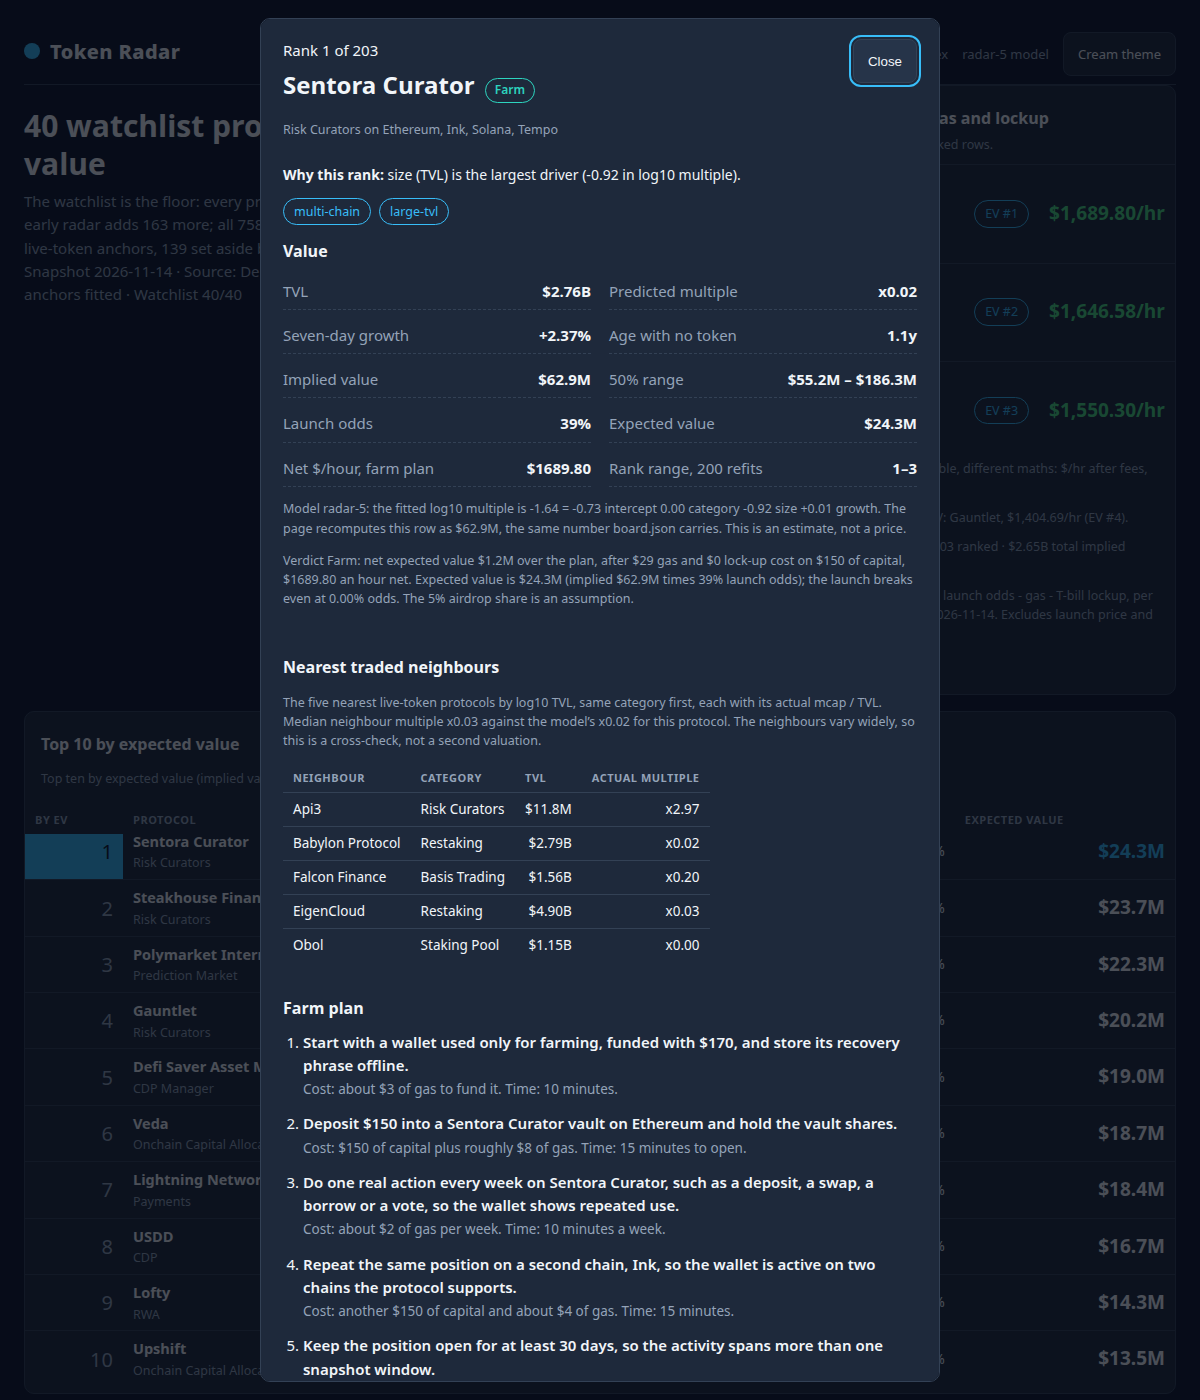
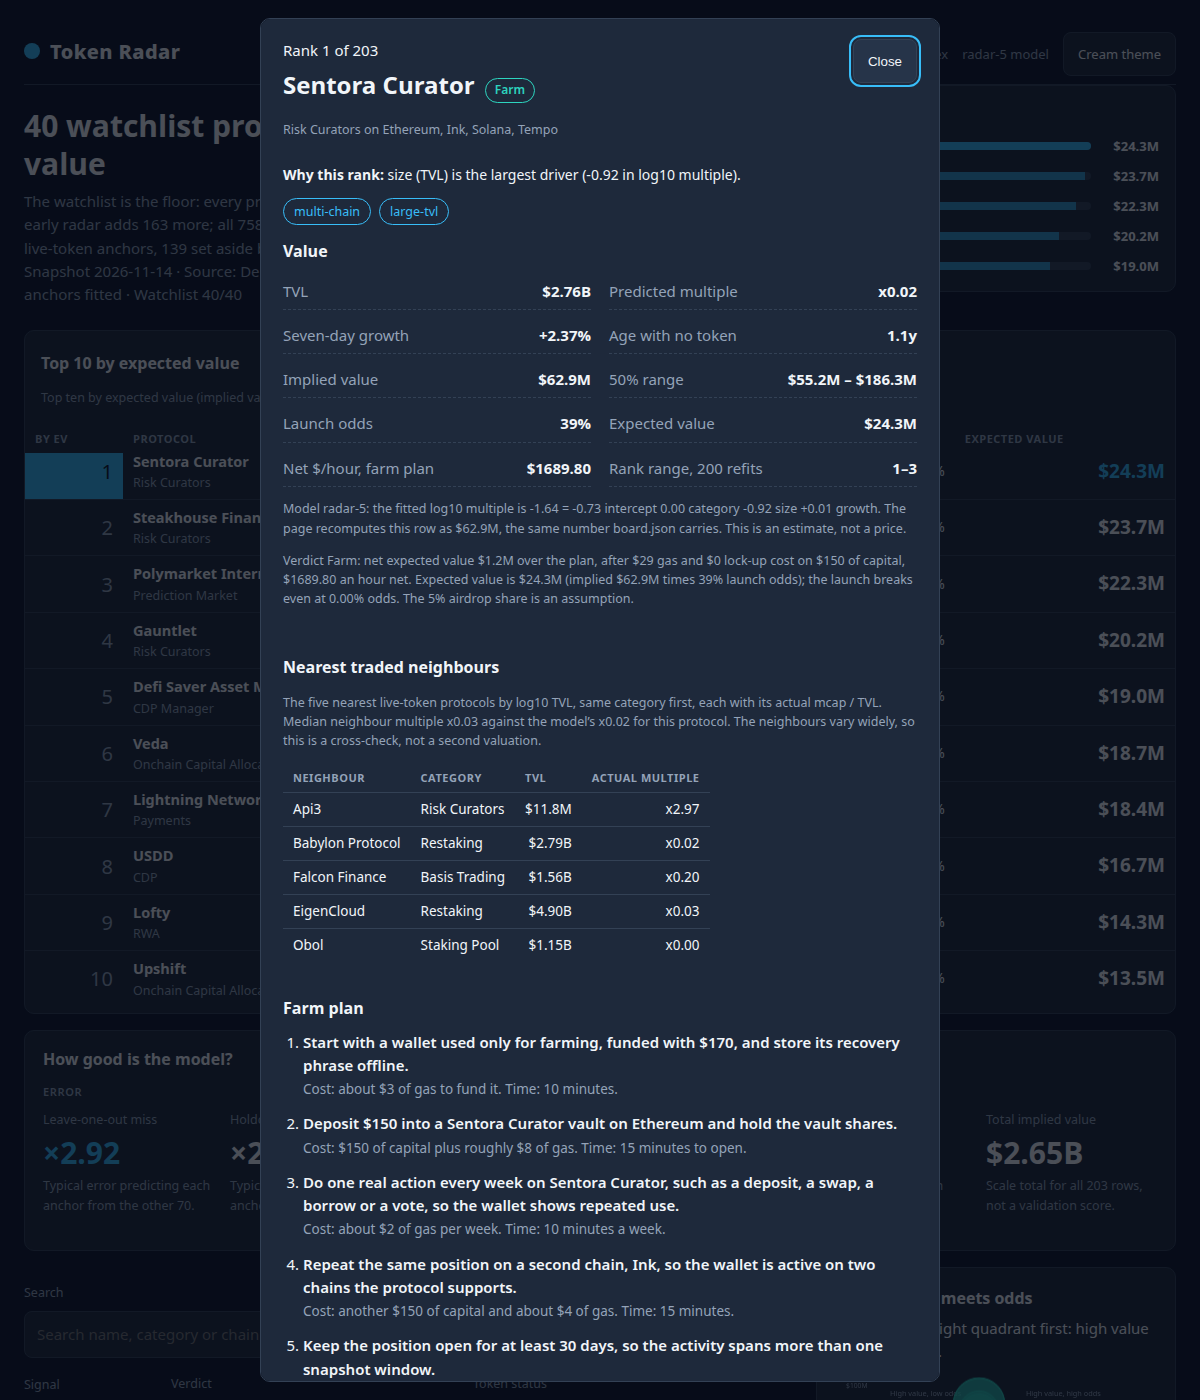
radar-10: animated top-5 bar chart replaces the Farm Next panel
The Farm Next panel is gone entirely and the slot beside the lede now holds a
compact animated horizontal bar chart of the top 5 by expected value, computed
from the board data at runtime: Sentora Curator $24.3M, Steakhouse Financial
$23.7M, Polymarket International $22.3M, Gauntlet $20.2M, Defi Saver Asset
Management $19.0M. Bars grow left to right with a scaleX race animation,
500ms, 80ms stagger biggest first, settled within 1s; rank 1 uses the full
theme accent and the other four a dimmer same-hue accent. Rows are buttons
that open the same detail dialog as table rows. prefers-reduced-motion renders
the bars at full width instantly. Mobile stacks the chart full-width above the
Top 10 with no overflow in either theme.

Validation: gate-check PASS (coverage 758/758, watchlist 40/40, fit 71
anchors, dossier 64,363 bytes, headroom 1,173, two runs byte-identical),
recompute 203 rows 0 failures, 4 screenshots retaken fresh and visually
verified, 26 live checks pass with zero console errors.

diff --git a/dashboard/app.js b/dashboard/app.js
@@ -21,8 +21,8 @@
 	}
 	var state = { q: '', category: 'all', chain: 'all', tab: 'pre-token', sort: 'implied', dir: -1, selected: null, signal: 'all', verdict: 'all', anchorSort: 'residual', anchorDir: -1 };
 	var quadSeen = false;
+	var chartSeen = false;
 	var usd = new Intl.NumberFormat('en-US', { style: 'currency', currency: 'USD', maximumFractionDigits: 0 });
-	var usd2 = new Intl.NumberFormat('en-US', { style: 'currency', currency: 'USD', minimumFractionDigits: 2, maximumFractionDigits: 2 });
 	function fmtUsd(n) {
 		if (n === null || n === undefined || !isFinite(n)) return 'n/a';
 		if (Math.abs(n) >= 1e9) return '$' + (n / 1e9).toFixed(2) + 'B';
@@ -267,49 +267,25 @@
 			)
 		);
 	}
-	function farmNext() {
-		var k = D.kpis;
-		var m = D.model;
-		var byNet = D.rows.slice().sort(function(a, b) { return b.net_per_hour_usd - a.net_per_hour_usd; });
+	function evChart() {
 		var byEv = D.rows.slice().sort(function(a, b) { return b.expected_value_usd - a.expected_value_usd; });
-		var evRank = {};
-		byEv.forEach(function(r, i) { evRank[r.slug] = i + 1; });
-		var top = byNet.slice(0, 3);
-		var outside = null;
-		for (var i = 0; i < byNet.length; i++) {
-			if (evRank[byNet[i].slug] > 3) { outside = byNet[i]; break; }
-		}
-		var rows = top.map(function(r) {
-			var a = rowAttrs(r.slug);
-			return el('tr', a,
-				el('td', null,
-					el('div', { class: 'name' },
-						el('b', { text: r.name }),
-						el('span', { class: 'sub', text: (r.category || 'Other') })
-					),
-					el('span', { class: 'sub', text: usd.format(r.farm_ev_usd + r.plan_gas_usd) + ' expected airdrop - ' + usd.format(r.plan_gas_usd) + ' gas - $' + r.plan_lockup_usd.toFixed(2) + ' lockup' })
-				),
-				el('td', null, el('span', { class: 'chip', text: 'EV #' + evRank[r.slug] })),
-				el('td', { class: 'num' },
-					el('b', { class: 'net-num', text: usd2.format(r.net_per_hour_usd) + '/hr' })
-				)
+		var top = byEv.slice(0, 5);
+		var max = top.length ? top[0].expected_value_usd : 1;
+		var rows = top.map(function(r, i) {
+			var pct = Math.max(3, Math.round((r.expected_value_usd / max) * 100));
+			return el('button', { class: 'ev-row' + (i === 0 ? ' top1' : ''), type: 'button', 'aria-label': r.name + ', expected value ' + fmtUsd(r.expected_value_usd) + ', ' + (i + 1) + ' of 5 by expected value', onclick: function(e) { openDetail(r.slug, e.currentTarget); } },
+				el('span', { class: 'ev-rank num', text: String(i + 1) }),
+				el('span', { class: 'ev-name', text: r.name }),
+				el('span', { class: 'ev-track', 'aria-hidden': 'true' }, el('i', { class: 'ev-fill', style: 'width:' + pct + '%;--d:' + (i * 80) + 'ms' })),
+				el('span', { class: 'ev-value num', text: fmtUsd(r.expected_value_usd) })
 			);
 		});
-		return el('section', { class: 'panel farm-next', 'aria-label': 'Best net per hour' },
-			el('h2', { text: 'Best net per hour, after gas and lockup' }),
-			sub('Model estimate. From the ' + D.board_size + ' ranked rows.'),
-			el('div', { class: 'table-wrap' },
-				el('table', { class: 'mult-table' }, el('tbody', null, rows))
-			),
-			sub('Same 3 names as the top of the table, different maths: $/hr after fees, not expected value.'),
-			outside ? sub('Best outside the table\'s top 3 by EV: ' + outside.name + ', ' + usd2.format(outside.net_per_hour_usd) + '/hr (EV #' + evRank[outside.slug] + ').') : null,
-			sub(k.farmable_count + ' Farm · ' + k.marginal_count + ' Marginal · ' + k.skip_count + ' Skip, of ' + D.board_size + ' ranked · ' + fmtUsd(k.total_implied_usd) + ' total implied value · watchlist ' + D.watchlist_size + '/' + D.watchlist_size + '.'),
-			sub('Net = implied x ' + Math.round(m.airdrop_share * 100) + '% airdrop share x launch odds - gas - T-bill lockup, per hour over the plan\'s days. Fitted ' + D.as_of + '. Excludes launch price and airdrop eligibility.'),
-			el('details', { class: 'farm-assume' },
-				el('summary', { text: 'Full assumptions' }),
-				el('ul', { html: '<li>Airdrop share is ' + Math.round(m.airdrop_share * 100) + '% of implied value, assumed, not fitted.</li><li>Launch odds are the share of protocols in each age band that already carry a token.</li><li>Gas and lockup are the plan costs under each rate; lockup is plan capital at ' + Math.round(m.t_bill_rate * 100) + '% a year over the plan days; capital on this board is $50, $100 or $150, set by TVL.</li><li>Implied value is a fitted model, not a price; launch price is not modelled.</li><li>Airdrop eligibility is not modelled; no token on record is not proof a protocol has none.</li><li>Missing values show as n/a, never zero.</li>' })
-			)
+		var panel = el('section', { class: 'panel ev-chart' + (chartSeen ? ' settled' : ''), 'aria-label': 'Top five by expected value' },
+			el('h2', { text: 'Top 5 by expected value' }),
+			rows
 		);
+		chartSeen = true;
+		return panel;
 	}
 	function sel(id, label, all, list, cur, set) {
 		var s = el('select', { id: id, 'aria-label': label },
@@ -762,7 +738,7 @@
 		shell.appendChild(header());
 		var top = el('div', { class: 'lede-row' });
 		top.appendChild(lede());
-		top.appendChild(farmNext());
+		top.appendChild(evChart());
 		shell.appendChild(top);
 		if (state.tab === 'pre-token') shell.appendChild(evTop10());
 		shell.appendChild(kpiStrip());

diff --git a/dashboard/app.css b/dashboard/app.css
@@ -1,12 +1,12 @@
 :root,[data-theme="dark"]{
   --bg:#0f172a;--panel:#1e293b;--panel2:#263449;--line:#334155;
-  --text:#f1f5f9;--muted:#94a3b8;--accent:#38bdf8;--ink:#38bdf8;
+  --text:#f1f5f9;--muted:#94a3b8;--accent:#38bdf8;--accent-dim:#3599cc;--ink:#38bdf8;
   --good:#4ade80;--bad:#f87171;--warn:#fbbf24;--farm:#2dd4bf;--marg:#fbbf24;--skip:#fb7185;
   --on-accent:#0f172a;--radius:10px;--ease:cubic-bezier(.22,1,.36,1);
 }
 [data-theme="cream"]{
   --bg:#f4f0e8;--panel:#fffbf2;--panel2:#e6e0d4;--line:#cfc6b6;
-  --text:#2b2a27;--muted:#5f5a52;--accent:#0f766e;--ink:#0f766e;
+  --text:#2b2a27;--muted:#5f5a52;--accent:#0f766e;--accent-dim:#0d6b64;--ink:#0f766e;
   --good:#166534;--bad:#b91c1c;--warn:#92400e;--farm:#0f766e;--marg:#b45309;--skip:#be123c;
   --on-accent:#fffbf2;
 }
@@ -50,8 +50,8 @@ thead th{border-top:0;border-bottom:1px solid var(--line);color:var(--muted);fon
 thead th button{display:block;width:100%;background:none;border:0;color:inherit;font:inherit;cursor:pointer;padding:14px 0;text-align:inherit;}
 .sort{color:var(--muted);}
 .sort.on{color:var(--ink);}
-.board tbody tr,.ev tbody tr,.farm-next tbody tr{cursor:pointer;}
-.board tbody tr:hover,.board tbody tr[data-selected="true"],.ev tbody tr:hover,.farm-next tbody tr:hover{background:var(--panel2);}
+.board tbody tr,.ev tbody tr{cursor:pointer;}
+.board tbody tr:hover,.board tbody tr[data-selected="true"],.ev tbody tr:hover{background:var(--panel2);}
 .num{text-align:right;font-variant-numeric:tabular-nums;white-space:nowrap;}
 .name b{display:block;font-size:14.5px;}
 .pos{color:var(--good);}
@@ -71,13 +71,21 @@ thead th button{display:block;width:100%;background:none;border:0;color:inherit;
 .empty{padding:28px 20px;text-align:center;}
 .button.primary{background:var(--accent);color:var(--on-accent);border-color:var(--accent);font-weight:700;}
 .ev{margin:16px 0;}
-.farm-next h2{font-size:16px;margin:0;padding:14px 16px 4px;}
-.farm-next > .sub{margin:0 0 10px;padding:0 16px;}
-.net-num{color:var(--good);font-size:19px;font-weight:700;}
-.farm-assume{margin:0 16px;}
-.farm-assume summary{color:var(--ink);font-size:14px;padding:6px 0;}
-.farm-assume summary:hover{text-decoration:underline;}
-.farm-assume ul{margin:4px 0 10px;padding-left:18px;color:var(--muted);}
+.ev-chart{padding:12px 0 10px;}
+.ev-chart h2{font-size:16px;margin:0;padding:0 16px 8px;}
+.ev-row{display:grid;grid-template-columns:18px minmax(96px,1.1fr) minmax(72px,1.6fr) 58px;gap:10px;align-items:center;width:100%;background:none;border:0;color:inherit;font:inherit;text-align:left;padding:3px 16px;min-height:30px;cursor:pointer;}
+.ev-row:hover,.ev-row:focus-visible{background:var(--panel2);}
+.ev-rank{font-size:13px;color:var(--muted);}
+.ev-row.top1 .ev-rank{color:var(--accent);font-weight:700;}
+.ev-name{font-size:13.5px;font-weight:600;overflow:hidden;text-overflow:ellipsis;white-space:nowrap;}
+.ev-track{display:block;height:8px;background:var(--line);border-radius:4px;overflow:hidden;}
+.ev-fill{display:block;height:100%;background:var(--accent);transform:scaleX(1);transform-origin:left;animation:bar-in 500ms var(--ease) backwards;animation-delay:var(--d,0ms);}
+.ev-row:not(.top1) .ev-fill{background:var(--accent-dim);}
+.ev-row:is(:hover,:focus-visible) .ev-fill{background:var(--accent);}
+.ev-value{font-size:13px;font-weight:700;}
+@keyframes bar-in{from{transform:scaleX(0);}to{transform:scaleX(1);}}
+.ev-chart.settled .ev-fill{animation:none;}
+@media (prefers-reduced-motion:reduce){.ev-fill{animation:none;}}
 .ev h2{font-size:16px;margin:0;padding:14px 16px 0;}
 .ev td.ev-num{font-size:19px;font-weight:700;}
 .ev .rank{font-size:20px;color:var(--muted);}
